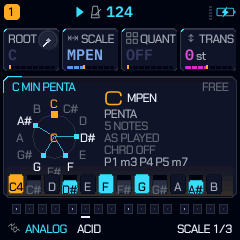
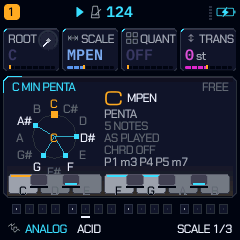
Turn SCL's keyboard strip into a real keybed
The scale and chord pages drew twelve identical cells with a note name in
each, so the strip read as a row of buttons rather than an instrument. It is
now seven naturals with five accidentals on their seams, the scale carried by
a strip on the key, and the sounding note marked at its foot.

🤖 Generated with Codebuff

Changed region(s): [[0.0292, 0.7, 0.9625, 0.8167]]

diff --git a/firmware/src/ui_scl.c b/firmware/src/ui_scl.c
@@ -153,40 +153,72 @@ static void scl_notes(const uint8_t *nt, uint32_t n, char *b, uint32_t sz)
         str_cpy(b + str_len(b), N_NOTE[nt[i] % 12u], sz - str_len(b));
     }
 }
-/* the keyboard strip: twelve keys from x0 to x1, in the scale coloured (the tonic in the accent), and the
- * notes a voice is sounding lit. It reads the same mask as the circle above it, so the two cannot disagree. */
+/* (3.6) THE KEYBOARD IS A KEYBOARD. It was twelve square cells with a note name in each, one cell drawn
+ * high on an accidental and low on a natural: at 20 px it read as a row of buttons, not as an instrument.
+ * It is a real keybed now, the same one SCL's SCALE page draws at 60 px: seven naturals 30 px wide with a
+ * 2 px gap, five accidentals 18 px wide and 12 px tall sitting on their seam, both bevelled with scl_pkey
+ * and a 1 px contour. The scale is on the key: a 2 px strip along its top edge (the tonic in the accent,
+ * the other degrees in the theme) and a warmer face; a voice sounding marks the foot of its key. The mask
+ * is the circle's own, so the ring above and the keys cannot disagree. Names are drawn only when the key
+ * has the room for them (the chord page's 16 px strip keeps its keys unlabelled). */
 static void scl_keys(const track_t *t, int32_t x0, int32_t y0, int32_t w, int32_t h, uint32_t mask,
                      uint32_t root, int small)
 {
+    static const uint8_t W_NOTE[7] = {0, 2, 4, 5, 7, 9, 11};    /* C D E F G A B */
+    static const uint8_t W_KEY[12] = {0, 0, 1, 1, 2, 3, 3, 4, 4, 5, 5, 6};
     uint32_t i, live = 0;
-    int32_t gap = 2, kw = (w - 11 * gap) / 12;
+    int32_t gap = 2, kw = (w - 6 * gap) / 7, bw = kw * 11 / 18, bh = h * 3 / 5;
+    int names = !small && h >= 18 && kw >= 24;                 /* the key's foot holds a 9 px name */
+    if (kw < 8)
+        return;
+    if (bw < 9)
+        bw = 9;
+    if (bh < 7)
+        bh = 7;
     for (i = 0; i < NVOICE; i++) {
         const voice_t *v = &V(t, i);
         if (v->active && v->gate && v->note < 128u)
             live |= 1u << (v->note % 12u);
     }
-    /* twelve cells, one a key: the cell sits high on a white key and low on a black one, as the keys do, and the
-     * ones in the scale are filled with the theme (the tonic with the accent). A voice sounding marks its cell. */
+    /* the seven naturals */
+    for (i = 0; i < 7u; i++) {
+        uint32_t note = W_NOTE[i], deg = (note + 12u - root) % 12u;
+        int32_t kx = x0 + (int32_t)i * (kw + gap);
+        int in = (mask >> deg) & 1u, is_root = in && deg == 0u;
+        int sound = (live >> note) & 1u;
+        uint16_t face = in ? T_KEYW : ux_mix(T_KEYW, T_BG, 26);
+        uint16_t strip = is_root ? T_ACCENT : in ? T_THEME : 0;
+        scl_pkey(kx, y0, kw, h, face, ux_mix(face, T_BG, 58));
+        if (strip)                                          /* the scale, on the key's top edge */
+            cv_rect(kx + 3, y0 + 1, kw - 6, 2, strip);
+        cv_rect(kx + kw - 1, y0 + 3, 1, h - 6, ux_mix(face, T_BG, 34));   /* the seam's shade */
+        if (names) {
+            GFX_HOOK_ALIGN(kx, y0 + h - 11, kx + kw, y0 + h - 1, AL_H, "SCL natural name in its key");
+            cv_text_in(kx, y0 + h - 11, kw, &AF_S, N_NOTE[note], in ? T_INK : T_DIM, face);
+        }
+        if (sound)                                          /* the note is sounding: a bar at its foot */
+            cv_rect(kx + 3, y0 + h - 3, kw - 6, 2, T_ACCENT);
+    }
+    /* the five accidentals, over the seam they belong to */
     for (i = 0; i < 12u; i++) {
         uint32_t deg = (i + 12u - root) % 12u;
-        int32_t kx = x0 + (int32_t)i * (kw + gap);
-        int in = (mask >> deg) & 1u, is_root = in && deg == 0u, black = SCL_BLACK[i];
-        int sound = (live >> i) & 1u;
-        int32_t ky = y0 + (black ? h / 3 : 0), kh = h - (black ? h / 3 : 0);
-        uint16_t face = is_root ? T_ACCENT : in ? T_THEME : black ? T_RAISE : T_SURF;
-        uint16_t ink = is_root ? T_INK : in ? T_INK : black ? T_DIM : T_MID;
-        scl_pkey(kx, ky, kw, kh, face, ux_mix(face, T_BG, 55));
-        if (black)
-            cv_rect(kx + 1, y0 + 1, kw - 2, h / 3 - 1, T_BG);
-        if (!small && i == 0 && kw >= 15) {          /* (6.2) C4: the strip's own octave, on its C */
-            char cb[4];
-            str_cpy(cb, N_NOTE[i], sizeof cb);
-            fmt_int(cb + 1, 4);
-            cv_text_in(kx, ky + (kh - 9) / 2, kw, &AF_S, cb, ink, face);
-        } else if (!small)
-            cv_text_in(kx, ky + (kh - 9) / 2, kw, &AF_S, N_NOTE[i], ink, face);
+        int32_t kx;
+        int in, is_root, sound;
+        uint16_t face, strip;
+        if (!SCL_BLACK[i])
+            continue;
+        kx = x0 + (int32_t)W_KEY[i] * (kw + gap) + kw + gap / 2 - bw / 2;
+        in = (mask >> deg) & 1u;
+        is_root = in && deg == 0u;
+        sound = (live >> i) & 1u;
+        face = sound ? ux_mix(T_KEYB, T_THEME, 46) : T_KEYB;
+        strip = is_root ? T_ACCENT : in ? T_THEME : 0;
+        scl_pkey(kx, y0, bw, bh, face, ux_mix(T_KEYB, T_TEXT, 24));
+        if (strip)                                          /* the scale, at the accidental's foot */
+            cv_rect(kx + 3, y0 + bh - 3, bw - 6, 2, strip);
+        cv_rect(kx, y0 + bh, bw, 2, T_BG);                  /* its shadow on the naturals */
         if (sound)
-            cv_rect(kx + 2, ky + kh - 3, kw - 4, 2, is_root || in ? T_TEXT : T_ACCENT);
+            cv_rect(kx + 3, y0 + bh - 4, bw - 6, 1, T_TEXT);
     }
 }
 /* the scale's own strip: the same keys, masked by the track's scale */
